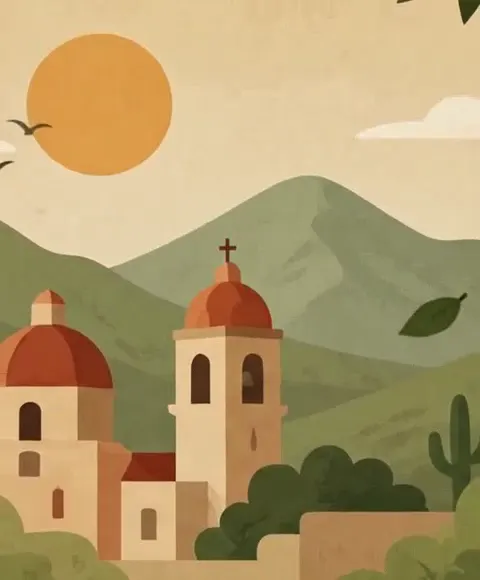
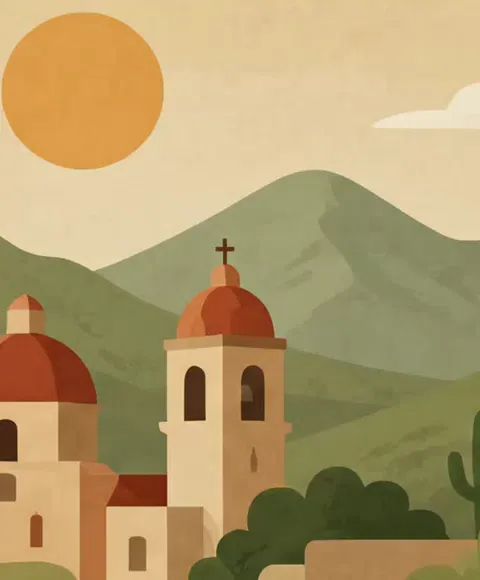
Fix story film frame jump: poster from frame zero, reveal after loadeddata

diff --git a/src/assets/js/script.js b/src/assets/js/script.js
@@ -459,27 +459,47 @@ document.addEventListener('DOMContentLoaded', () => {
       // no autoplay: just show the poster inside the arch
       if (arch) arch.classList.add('is-revealed');
     } else {
-      // warm the file early so the curtain never rises on an empty window
+      const loadFilm = () => {
+        if (storyVideo.src) return;
+        storyVideo.preload = 'auto';
+        storyVideo.src = storyVideo.dataset.src;
+        storyVideo.load();
+      };
+
+      // warm the file early so frame zero is decoded before the curtain rises
       const warmObserver = new IntersectionObserver((entries, obs) => {
         entries.forEach(entry => {
           if (!entry.isIntersecting) return;
           obs.unobserve(storyVideo);
-          if (!storyVideo.src) storyVideo.src = storyVideo.dataset.src;
+          loadFilm();
         });
       }, { rootMargin: '600px 0px' });
       warmObserver.observe(storyVideo);
+
+      // reveal only once the video element already shows frame zero —
+      // the poster is that same frame, so nothing visibly swaps
+      const reveal = () => {
+        if (arch) arch.classList.add('is-revealed');
+        storyVideo.addEventListener('ended', () => {
+          if (arch) arch.classList.add('is-finished');
+        }, { once: true });
+        // let the curtain clear the frame, then roll
+        setTimeout(() => { storyVideo.play().catch(() => {}); }, 550);
+      };
 
       const playObserver = new IntersectionObserver((entries, obs) => {
         entries.forEach(entry => {
           if (!entry.isIntersecting) return;
           obs.unobserve(storyVideo);
-          if (!storyVideo.src) storyVideo.src = storyVideo.dataset.src;
-          if (arch) arch.classList.add('is-revealed');
-          storyVideo.addEventListener('ended', () => {
-            if (arch) arch.classList.add('is-finished');
-          }, { once: true });
-          // let the curtain clear the frame, then roll
-          setTimeout(() => { storyVideo.play().catch(() => {}); }, 500);
+          loadFilm();
+          if (storyVideo.readyState >= 2) {
+            reveal();
+          } else {
+            let revealed = false;
+            const once = () => { if (!revealed) { revealed = true; reveal(); } };
+            storyVideo.addEventListener('loadeddata', once, { once: true });
+            setTimeout(once, 2500); // never leave the window dark
+          }
         });
       }, { threshold: 0.45 });
       playObserver.observe(storyVideo);
